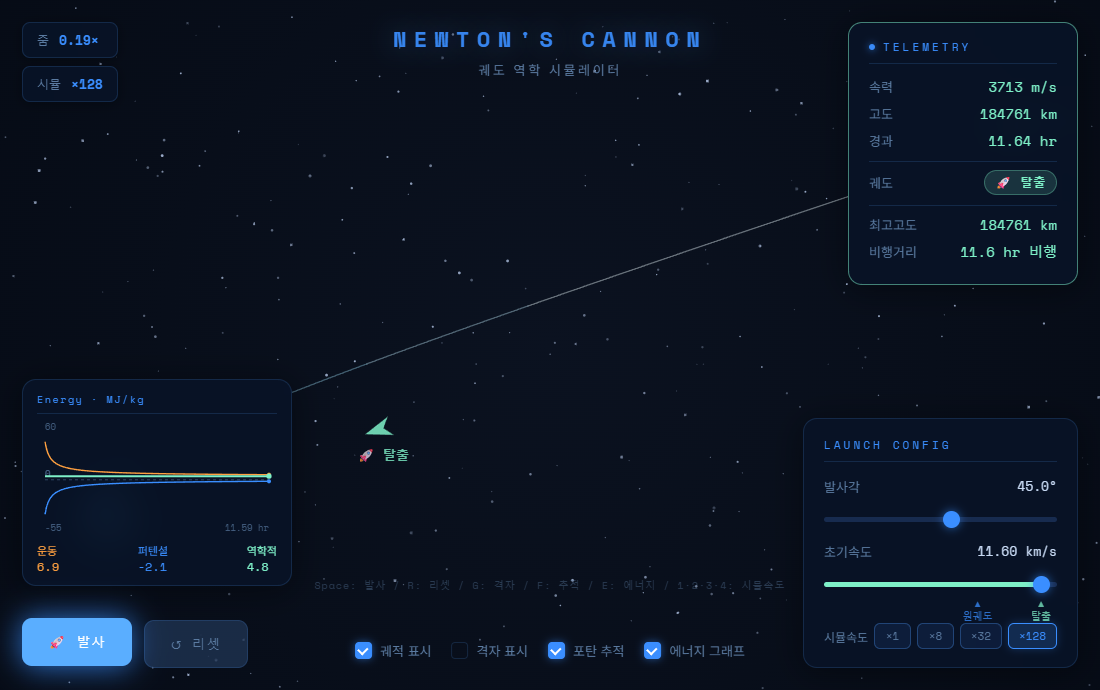
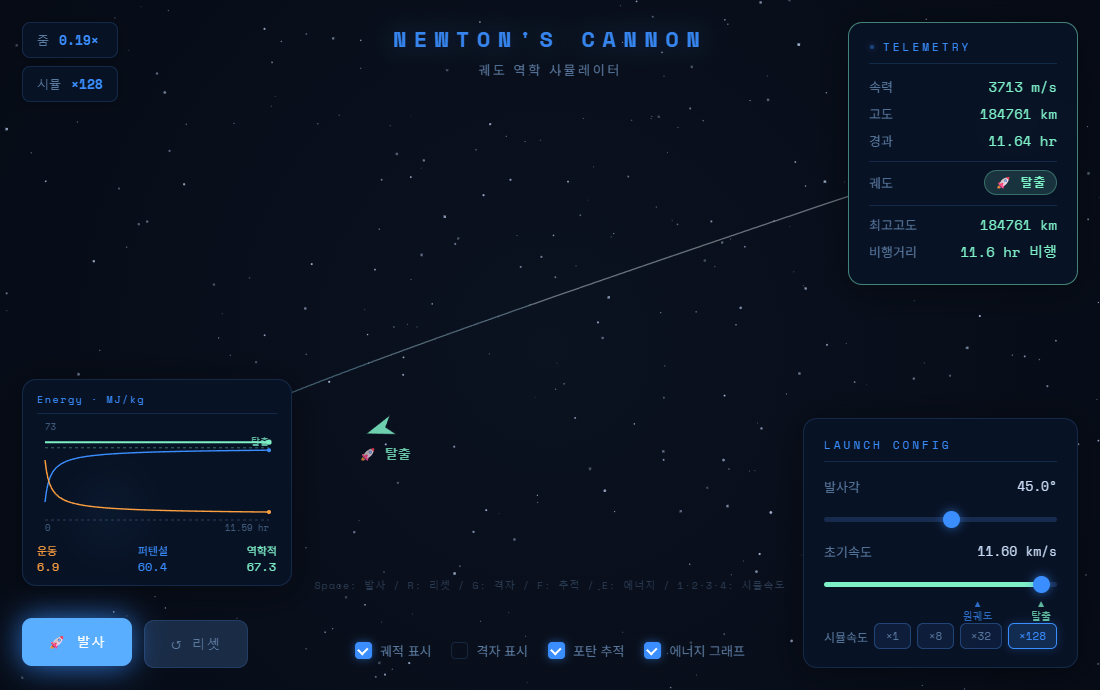
에너지 그래프 눈금을 비행의 에너지 규모에 맞춤
무한대 기준(U = −GM/r)으로 그리면 축의 대부분을 정보가 없는 상수(−62.5 MJ/kg)가
차지해서, 2 km/s 발사의 에너지 변화가 축의 1.6%(112px 중 2px)라 보이지 않았습니다.

- energy.js: U_LAUNCH_REF (= GM/R_발사 = 탈출에 필요한 에너지) 추가.
  그래프만 이 기준으로 옮겨 그립니다 — U' = GM/R_발사 − GM/r ≥ 0.
  상수를 더한 것뿐이라 곡선 모양·보존·교환 관계는 그대로이고, 지표 근처에서는
  U' ≈ gh 라 교과서의 mgh 와 이어집니다. specificEnergy 는 무한대 기준 값을
  그대로 돌려줍니다(궤도 배지·탈출 판정이 쓰는 값).
- 결과: 축이 발사 에너지에 비례해 잡히고(2 km/s → 2.3, 10 km/s → 69 MJ/kg)
  변화가 축의 49~67% 를 차지합니다 (이전 1.6~42%).
- "E < 0 이면 속박" 은 "E < 62.5 MJ/kg" 이 되므로, 그 선이 화면에 들어올 만한
  발사(≥ 0.6배)에서는 '탈출' 점선을 함께 그립니다.
- 축 눈금은 값이 작을 때 소수점을 살리고, 발사 지점 아래로 살짝 내려가는 정도는
  0 에 맞춰 '-0.0' 이 뜨지 않게 했습니다.

테스트: 스모크에 기준 상수 = ½v₂² 검증, 브라우저에 저속/고속 축 크기와
변화 비율(> 30%)·탈출선 표시 여부 검사 추가

Claude-Session: https://claude.ai/code/session_01EM7yxGSXG6YXyEnFAWo37v

Changed region(s): [[0.0309, 0.6391, 0.2473, 0.7609], [0.3091, 0.6087, 0.3709, 0.6696]]

diff --git a/src/ui/energyGraph.js b/src/ui/energyGraph.js
@@ -1,4 +1,4 @@
-import { specificEnergy } from '../physics/energy.js';
+import { specificEnergy, U_LAUNCH_REF } from '../physics/energy.js';
 import { fmtTime } from '../core/format.js';
 import { els } from './dom.js';
 
@@ -12,6 +12,15 @@ import { els } from './dom.js';
  *    E 가 0 위로 올라가 있는 게 한눈에 보입니다.
  *  - 적분기(속도 베를레)가 에너지를 정말 보존하는지 눈으로 확인시켜 줍니다.
  *
+ * **눈금은 그 비행의 에너지 규모에 자동으로 맞춰집니다.** 퍼텐셜의 기준점을 발사 지점으로
+ * 잡았기 때문입니다(U' = GM/R_발사 − GM/r ≥ 0, energy.js 의 U_LAUNCH_REF 참고).
+ * 무한대 기준으로 그리면 축의 대부분을 정보가 없는 상수(−62.5 MJ/kg)가 차지해서
+ * 2 km/s 발사의 변화는 축의 1.6%(약 2 px)라 보이지 않습니다. 기준을 옮기면 같은 발사가
+ * 축의 90% 를 씁니다 — 상수를 더한 것뿐이라 물리는 그대로입니다.
+ *
+ * 대신 "E < 0 이면 속박" 이 "E' < 탈출선(62.5 MJ/kg) 이면 속박" 이 되므로, 그 선이
+ * 화면에 들어올 만한 발사에서는 점선으로 함께 그립니다.
+ *
  * 캔버스는 시뮬레이션 캔버스와 별개인 작은 DOM 캔버스입니다. `.ui` 의 자식이라
  * earthLocator 의 창이 알아서 이 패널을 피해 갑니다.
  */
@@ -20,12 +29,16 @@ import { els } from './dom.js';
 const MAX_POINTS = 240;
 
 const COLOR = { k: '#ffa040', u: '#3a8eff', e: '#7ef0c8' };
+/** 탈출선(= 무한대 기준의 E = 0)이 이 비율 이상 올라와야 그려 줍니다 */
+const ESCAPE_LINE_MIN = 0.6;
 /** 좌우 여백은 고정, 위아래는 캔버스가 낮을수록 줄입니다(작은 폰에서 곡선이 눌리지 않게) */
 const PAD_X = 8;
 const padY = (h) => Math.max(9, Math.min(14, h * 0.14));
 
 const toMJ = (v) => v / 1e6;
 const fmtMJ = (v) => `${toMJ(v).toFixed(1)}`;
+/** 축 눈금: 값이 작을수록 소수점을 살립니다 (2 MJ/kg 짜리 발사에서 '0, 2' 만 보이면 곤란) */
+const fmtAxis = (v) => (v === 0 ? '0' : Math.abs(v) >= 10 ? toMJ(v).toFixed(0) : toMJ(v).toFixed(1));
 
 export class EnergyGraph {
   /** @type {{t:number,k:number,u:number,e:number}[]} 단위 J/kg */
@@ -34,6 +47,8 @@ export class EnergyGraph {
   #interval = 0;
   #w = 0;
   #h = 0;
+  /** 마지막으로 그린 y 축 범위 (테스트·디버깅용) */
+  axis = { lo: 0, hi: 0, showEscape: false };
 
   constructor() {
     this.canvas = els.energyCanvas?.();
@@ -92,16 +107,25 @@ export class EnergyGraph {
       return;
     }
 
-    // ── 값의 범위. 0 을 반드시 포함시킵니다 (E 의 부호가 궤도의 운명이므로) ──
+    // ── 값의 범위: 이번 비행의 데이터에 맞춰 잡습니다 (발사 지점을 0 으로 본 값) ──
+    // 세 곡선 모두 0 근처에서 시작하므로 축의 크기가 곧 그 비행의 에너지 규모가 됩니다.
     let lo = 0;
     let hi = 0;
     for (const p of pts) {
-      lo = Math.min(lo, p.u, p.k, p.e);
-      hi = Math.max(hi, p.u, p.k, p.e);
+      const u = p.u + U_LAUNCH_REF;
+      const e = p.e + U_LAUNCH_REF;
+      lo = Math.min(lo, u, p.k, e);
+      hi = Math.max(hi, u, p.k, e);
     }
+    // 탈출선이 가까이 왔으면 축에 포함시켜 "넘었는가"를 보여 줍니다
+    const showEscape = hi >= U_LAUNCH_REF * ESCAPE_LINE_MIN;
+    if (showEscape) hi = Math.max(hi, U_LAUNCH_REF * 1.02);
     const margin = (hi - lo) * 0.08 || 1;
-    lo -= margin;
+    // 발사 지점보다 살짝 아래(착탄은 에베레스트 높이만큼 낮습니다)로 내려가는 정도는
+    // 0 에 맞춰 둡니다 — 눈금에 '-0.0' 이 뜨는 게 더 헷갈립니다
+    lo = lo < -margin ? lo - margin : 0;
     hi += margin;
+    this.axis = { lo, hi, showEscape };
 
     const t0 = pts[0].t;
     const t1 = Math.max(pts[pts.length - 1].t, t0 + 1e-6);
@@ -111,29 +135,41 @@ export class EnergyGraph {
     const X = (t) => PAD_X + ((t - t0) / (t1 - t0)) * plotW;
     const Y = (v) => pad + ((hi - v) / (hi - lo)) * plotH;
 
-    // ── 0 선 ──
-    const y0 = Y(0);
-    ctx.strokeStyle = 'rgba(120,160,210,0.35)';
+    // ── 기준선 ──
+    ctx.font = '9px "Space Mono",monospace';
     ctx.lineWidth = 1;
     ctx.setLineDash([3, 3]);
+
+    // 0 = 발사 지점에 정지해 있는 상태
+    const y0 = Y(0);
+    ctx.strokeStyle = 'rgba(120,160,210,0.3)';
     ctx.beginPath();
     ctx.moveTo(PAD_X, y0);
     ctx.lineTo(w - PAD_X, y0);
     ctx.stroke();
+
+    // 탈출선: 역학적 에너지가 이 위로 올라가면 돌아오지 않습니다 (무한대 기준의 E = 0)
+    if (showEscape) {
+      const yEsc = Y(U_LAUNCH_REF);
+      ctx.strokeStyle = 'rgba(126,240,200,0.4)';
+      ctx.beginPath();
+      ctx.moveTo(PAD_X, yEsc);
+      ctx.lineTo(w - PAD_X, yEsc);
+      ctx.stroke();
+      ctx.fillStyle = 'rgba(126,240,200,0.75)';
+      ctx.textAlign = 'right';
+      ctx.textBaseline = 'bottom';
+      ctx.fillText('탈출', w - PAD_X, yEsc - 1);
+    }
     ctx.setLineDash([]);
 
-    ctx.font = '9px "Space Mono",monospace';
-    ctx.fillStyle = 'rgba(120,160,210,0.6)';
-    ctx.textAlign = 'left';
-    ctx.textBaseline = 'bottom';
-    ctx.fillText('0', PAD_X, y0 - 1);
-
-    // ── 세 곡선 ──
+    // ── 세 곡선 (K 는 그대로, U·E 는 발사 지점 기준으로 올려서) ──
+    const val = (p, key) => (key === 'k' ? p.k : p[key] + U_LAUNCH_REF);
     for (const key of ['u', 'k', 'e']) {
       ctx.beginPath();
       for (let i = 0; i < pts.length; i++) {
         const x = X(pts[i].t);
-        const y = Y(pts[i][key]);
+        const y = Y(val(pts[i], key));
         if (i === 0) ctx.moveTo(x, y);
         else ctx.lineTo(x, y);
       }
@@ -146,7 +182,7 @@ export class EnergyGraph {
     const now = pts[pts.length - 1];
     for (const key of ['u', 'k', 'e']) {
       ctx.beginPath();
-      ctx.arc(X(now.t), Y(now[key]), key === 'e' ? 2.6 : 2, 0, Math.PI * 2);
+      ctx.arc(X(now.t), Y(val(now, key)), key === 'e' ? 2.6 : 2, 0, Math.PI * 2);
       ctx.fillStyle = COLOR[key];
       ctx.fill();
     }
@@ -155,19 +191,20 @@ export class EnergyGraph {
     ctx.fillStyle = 'rgba(90,122,160,0.75)';
     ctx.textAlign = 'left';
     ctx.textBaseline = 'top';
-    ctx.fillText(`${toMJ(hi).toFixed(0)}`, PAD_X, 1);
+    ctx.fillText(fmtAxis(hi), PAD_X, 1);
     ctx.textBaseline = 'bottom';
-    ctx.fillText(`${toMJ(lo).toFixed(0)}`, PAD_X, h - 1);
+    ctx.fillText(fmtAxis(lo), PAD_X, h - 1);
     ctx.textAlign = 'right';
     ctx.fillText(fmtTime(t1), w - PAD_X, h - 1);
 
     this.#setLegend(now);
   }
 
+  /** 범례도 그래프와 같은 기준(발사 지점 = 0)으로 씁니다 */
   #setLegend(now) {
     const set = (el, v) => { if (el) el.textContent = now ? fmtMJ(v) : '—'; };
     set(els.energyK?.(), now?.k);
-    set(els.energyU?.(), now?.u);
-    set(els.energyE?.(), now?.e);
+    set(els.energyU?.(), now === null ? null : now.u + U_LAUNCH_REF);
+    set(els.energyE?.(), now === null ? null : now.e + U_LAUNCH_REF);
   }
 }

diff --git a/scripts/browser-test.js b/scripts/browser-test.js
@@ -632,6 +632,40 @@ try {
   await page.waitForTimeout(200);
   check('E → 다시 표시', (await energyState()).visible);
 
+  // ── 눈금이 그 비행의 에너지 규모에 맞춰지는가 ──
+  // 퍼텐셜 기준을 발사 지점으로 잡았기 때문에, 느린 발사일수록 축이 함께 줄어듭니다.
+  // (무한대 기준으로 그리면 2 km/s 발사의 변화가 축의 1.6% 라 보이지 않았습니다)
+  const axisFor = async (spd, ang) => {
+    await page.keyboard.press('r');
+    await page.waitForTimeout(400);
+    await setSlider('#s-ang', ang);
+    await setSlider('#s-spd', spd);
+    await page.waitForTimeout(400);
+    await page.keyboard.press('4');
+    await page.keyboard.press('Space');
+    await page.waitForFunction(() => {
+      const s = window.__cannon.router.current.sim;
+      return s.done || s.trail.locked;
+    }, null, { timeout: 90000 });
+    await page.waitForTimeout(400);
+    return page.evaluate(() => {
+      const g = window.__cannon.energy;
+      const span = g.axis.hi - g.axis.lo;
+      const ks = g.points.map((p) => p.k);
+      return { span, esc: g.axis.showEscape, swing: (Math.max(...ks) - Math.min(...ks)) / span };
+    });
+  };
+
+  const slow = await axisFor(2000, 45);
+  check('저속 발사는 눈금도 작아짐 (< 5 MJ/kg)', slow.span < 5e6, `${(slow.span / 1e6).toFixed(2)} MJ/kg`);
+  check('저속에서도 변화가 축의 30% 이상', slow.swing > 0.3, `${(slow.swing * 100).toFixed(0)}%`);
+  check('저속 발사에는 탈출선을 그리지 않음', !slow.esc);
+
+  const fast = await axisFor(10000, 0);
+  check('빠른 발사는 눈금이 커짐 (> 50 MJ/kg)', fast.span > 50e6, `${(fast.span / 1e6).toFixed(2)} MJ/kg`);
+  check('빠른 발사에서도 변화가 축의 30% 이상', fast.swing > 0.3, `${(fast.swing * 100).toFixed(0)}%`);
+  check('탈출선 표시', fast.esc);
+
   // 탈출 발사는 E > 0
   await page.keyboard.press('r');
   await page.waitForTimeout(400);

diff --git a/src/physics/energy.js b/src/physics/energy.js
@@ -1,4 +1,4 @@
-import { GM } from '../core/constants.js';
+import { GM, R_LAUNCH } from '../core/constants.js';
 
 /**
  * 비에너지(단위 질량당 에너지) — 포탄 1 kg 이 가진 에너지. 단위 J/kg.
@@ -14,9 +14,26 @@ import { GM } from '../core/constants.js';
  * E > 0 이면 탈출(쌍곡선). `orbitalElements` 의 energy 와 같은 값이며,
  * `ProjectileSim.unbound` 도 이 부호로 탈출을 판정합니다.
  */
+
 export function specificEnergy(pos, vel, gm = GM) {
   const r = Math.hypot(pos.x, pos.y);
   const k = (vel.x * vel.x + vel.y * vel.y) / 2;
   const u = -gm / r;
   return { k, u, e: k + u };
 }
+
+/**
+ * 퍼텐셜의 기준점을 무한대에서 **발사 지점**으로 옮길 때 더하는 상수 (J/kg).
+ *
+ *   U' = U + U_LAUNCH_REF = GM/R_발사 − GM/r  ≥ 0   (발사 지점에서 0, 높이 올라갈수록 증가)
+ *
+ * 그래프가 이 기준을 쓰는 이유는 **눈금이 그 비행의 에너지 규모에 맞춰지기** 때문입니다.
+ * 무한대 기준으로 그리면 축의 대부분을 정보가 없는 상수(−62.5 MJ/kg)가 차지해서,
+ * 2 km/s 발사에서는 실제 변화가 축의 1.6% 밖에 안 돼 눈에 보이지 않습니다.
+ *
+ * 물리적으로는 상수를 더한 것뿐이라 곡선의 모양·에너지 보존·교환 관계가 모두 그대로이고,
+ * 지표 근처에서는 U' ≈ gh 라 교과서의 mgh 와 곧바로 이어집니다(고도 100 km 에서 0.96 MJ/kg).
+ *
+ * 이 값은 곧 **탈출에 필요한 에너지**이기도 합니다 — E' = U_LAUNCH_REF 가 무한대 기준의 E = 0.
+ */
+export const U_LAUNCH_REF = GM / R_LAUNCH;

diff --git a/scripts/smoke-test.js b/scripts/smoke-test.js
@@ -225,7 +225,7 @@ check('HUD 가 이월 결과 표시', document.getElementById('hud-impang').text
 // ═══ [8] 에너지 — 물리량과 그래프 표본 ═══
 console.log('');
 console.log('[8] 에너지 (운동·퍼텐셜·역학적)');
-const { specificEnergy } = await import('../src/physics/energy.js');
+const { specificEnergy, U_LAUNCH_REF } = await import('../src/physics/energy.js');
 const { GM: GM8, R_EARTH: RE8, V1: V18, V2: V28 } = await import('../src/core/constants.js');
 
 // 지표면에서 정지: K = 0, U = −GM/R
@@ -242,6 +242,12 @@ check('원궤도는 E < 0 (속박)', circ.e < 0, `${(circ.e / 1e6).toFixed(1)} M
 const esc = specificEnergy({ x: 0, y: RE8 }, { x: V28, y: 0 });
 check('탈출 속도에서 E = 0', Math.abs(esc.e) / esc.k < 2e-3, `${(esc.e / 1e6).toFixed(3)} MJ/kg`);
 check('탈출 속도 초과면 E > 0', specificEnergy({ x: 0, y: RE8 }, { x: V28 * 1.05, y: 0 }).e > 0);
+
+// 발사 지점 기준 퍼텐셜: 그래프가 쓰는 기준 (U' = U + U_LAUNCH_REF)
+check('기준 상수 = 탈출에 필요한 에너지', Math.abs(U_LAUNCH_REF - V28 ** 2 / 2) / U_LAUNCH_REF < 2e-3,
+  `${(U_LAUNCH_REF / 1e6).toFixed(1)} MJ/kg`);
+check('발사 지점에서 U 는 0', Math.abs(specificEnergy({ x: 0, y: 6.371e6 + 8848 }, { x: 0, y: 0 }).u + U_LAUNCH_REF) < 1);
+check('E 부호 판정은 기준을 옮겨도 같음', (circ.e + U_LAUNCH_REF) < U_LAUNCH_REF && (esc.e + U_LAUNCH_REF) <= U_LAUNCH_REF * 1.001);
 
 // 그래프: 발사하면 표본이 쌓이고 역학적 에너지가 보존되어야 합니다
 app.reset();

diff --git a/README.md b/README.md
@@ -149,7 +149,7 @@
 | 선 | 뜻 | 식 |
 |---|---|---|
 | 🟠 **운동** | 빠를수록 큼 | K = v²/2 |
-| 🔵 **퍼텐셜** | 멀수록 0 에 가까워짐 (항상 음수) | U = −GM/r |
+| 🔵 **퍼텐셜** | 높이 올라갈수록 큼 — **발사 지점이 0** | U = GM/R발사 − GM/r |
 | 🟢 **역학적** | 둘의 합 — **수평선** | E = K + U |
 
 질량을 가정하지 않은 이유는 궤도가 질량과 무관하기 때문입니다. m 을 곱하면 세 값이 모두
@@ -159,10 +159,21 @@
 
 - **K 와 U 가 정확히 반대로 출렁이는데 그 합은 평평합니다.** 근지점에서 빠르고 원지점에서
   느린 이유가 바로 이 교환입니다 — "어디서 온 에너지인가"에 대한 답이 눈에 보입니다.
-- **0 선(점선)이 곧 탈출의 경계**입니다. E 가 0 아래면 아무리 멀리 가도 반드시 돌아오고,
-  0 위면 영영 떠납니다. 11.6 km/s 로 쏴 보면 E 선이 0 바로 위에 놓입니다.
+- **눈금은 그 발사의 에너지 규모에 자동으로 맞춰집니다.** 2 km/s 발사면 축이 2 MJ/kg,
+  10 km/s 면 69 MJ/kg 로 잡혀서, 느린 발사에서도 변화가 축의 절반을 차지합니다.
+- **초록 선이 `탈출` 점선을 넘으면 돌아오지 않습니다.** 탈출선은 62.5 MJ/kg — 지구 중력을
+  이기는 데 필요한 에너지(= ½v₂², v₂ = 제2 우주속도)입니다. 8.7 km/s 이상으로 쏘면
+  이 선이 화면에 함께 나타납니다.
 - 수치 적분(속도 베를레)이 에너지를 정말 보존하는지도 함께 보입니다. 1회 공전 동안
   E 의 변동은 **0.0003% 수준**이라 육안으로는 완전한 수평선입니다.
+
+> 📐 **퍼텐셜의 기준점에 대하여.** 대학 교재와 이 시뮬레이터의 궤도 판정은 무한히 먼 곳을
+> 0 으로 잡아 U = −GM/r < 0 을 쓰고, "E < 0 이면 속박"이라고 말합니다. 그래프만 **발사 지점을
+> 0 으로** 옮긴 이유는 눈금 때문입니다 — 무한대 기준으로 그리면 축의 대부분을 정보가 없는
+> 상수(−62.5 MJ/kg)가 차지해서 2 km/s 발사의 변화가 축의 **1.6%(약 2 px)** 밖에 안 됩니다.
+> 상수를 더한 것뿐이라 곡선의 모양·보존·교환 관계는 완전히 같고, 지표 근처에서는 U ≈ gh 라
+> 교과서의 mgh 와 곧바로 이어집니다(고도 100 km 에서 0.96 MJ/kg ≈ 9.8 × 100 km).
+> 두 기준의 "탈출" 조건도 같은 말입니다 — E<sub>무한대</sub> = 0 ⟺ E<sub>발사지점</sub> = 62.5 MJ/kg.
 
 ### 궤적의 색 = 그 순간의 속력
 
@@ -235,7 +246,7 @@
 
 최고고도 지점과 근지점의 속력을 기록해 $\frac12 v^2 - \frac{GM}{r}$ 이 일정한지 확인시킵니다.
 
-> **이어지는 발문** — "역학적 에너지 선을 0 위로 올리려면 초기 속도를 얼마로 해야 할까?"
+> **이어지는 발문** — "역학적 에너지 선을 `탈출` 점선 위로 올리려면 초기 속도를 얼마로 해야 할까?"
 > (11.18 km/s 를 넘기면 초록 선이 점선 위로 올라가고, 포탄은 돌아오지 않습니다)
 
 ### 활동 4. 지구는 정말 둥근가 `측정`

diff --git a/ARCHITECTURE.md b/ARCHITECTURE.md
@@ -162,8 +162,18 @@ EventBus ──► App  (유일한 상태 소유자: config / display)
 두 배로 늘립니다. 그래서 90분짜리 원궤도든 59일짜리 고타원이든 **비행 전체가 항상 한 화면**에
 들어오고, 점 개수는 240 이하로 유지됩니다.
 
-y 범위는 데이터에 맞추되 **0 을 반드시 포함**시킵니다. E 의 부호가 곧 궤도의 운명이라
-(E < 0 속박 / E > 0 탈출) 0 선과의 위아래 관계가 이 그래프의 핵심이기 때문입니다.
+y 범위는 **그 비행의 데이터에 맞춰** 잡습니다. 그래서 눈금이 발사의 에너지 규모를 따라갑니다
+(2 km/s → 2 MJ/kg, 10 km/s → 69 MJ/kg).
+
+이게 가능한 것은 퍼텐셜의 기준점을 무한대가 아니라 **발사 지점**으로 옮겼기 때문입니다
+(`energy.js` 의 `U_LAUNCH_REF`). 무한대 기준이면 축의 대부분을 정보가 없는 상수
+(−62.5 MJ/kg)가 차지해 2 km/s 발사의 변화가 축의 **1.6%** 밖에 안 됩니다 — 기준을 옮기면
+같은 발사가 축의 50% 를 씁니다. 상수를 더한 것뿐이라 물리는 그대로이고, `specificEnergy` 는
+무한대 기준의 값을 그대로 돌려줍니다(궤도 배지·탈출 판정이 쓰는 값). 기준 이동은 그리는
+단계에서만 합니다.
+
+대신 "E < 0 이면 속박" 이 "E < 62.5 MJ/kg 이면 속박" 이 되므로, 그 선이 화면에 들어올 만한
+발사(≥ 0.6배)에서는 `탈출` 점선을 함께 그립니다.
 
 배치는 데스크톱에서 좌측 세로 패널, 모바일 세로에서는 **HUD 아래 가로 띠**입니다.
 후자는 `mobileLayout.js` 가 잡습니다 — HUD 높이가 폰트·안전영역에 따라 달라져 CSS 상수로는
